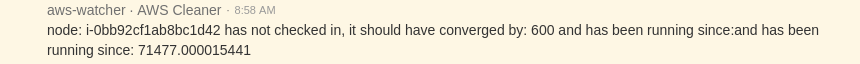
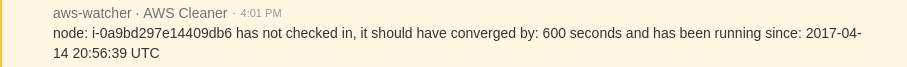
improving the notification message and logic to be more user friendlly

Changed region(s): [[0.0302, 0.375, 0.9674, 0.625], [0.0302, 0.0625, 0.3326, 0.2812], [0.0302, 0.6875, 0.3023, 0.9062]]

diff --git a/bin/aws_watcher.rb b/bin/aws_watcher.rb
@@ -53,9 +53,9 @@ loop do
     visibility_timeout: 3
   ).messages
 
-  puts "Got #{messages.size} messages"
+  puts "Got #{messages.size} message(s)"
   messages.each_with_index do |message, index|
-    puts "Looking at message number #{index}"
+    puts "Looking at message number #{index}" unless messages.size.zero?
     body = AwsCleaner.new.parse(message.body)
     id = message.receipt_handle
     now = Time.now.utc
@@ -67,18 +67,22 @@ loop do
     end
 
     @instance_id = AwsCleaner.new.process_message(body)
-    chef_node = AwsCleaner::Chef.get_chef_node_name(@instance_id, @config)
     elapsed_time = now - launch_time
     p "launch_time: #{launch_time}"
     p "now: #{now}"
-    # if the node exists in chef it hass bootstrapped
+    # if the node is no longer in aws we don't care anymore
+    # we can delete the message message
+    if !AwsWatcher::EC2.instance_alive?(@instance_id, @config)
+      p "instance: #{@instance_id} is not in aws anymore, removing message from queue"
+      AwsCleaner.new.delete_message(id, @config)
+    # if the node exists in chef it has bootstrapped
     # so we can delete the message
-    if chef_node || !AwsWatcher::EC2.instance_alive?(@instance_id, @config)
+    elsif AwsWatcher::Chef.registered?(@instance_id, @config)
       p "instance: #{@instance_id} has bootstrapped, removing message from queue"
       AwsCleaner.new.delete_message(id, @config)
-
+    else
+      p "instance: #{@instance_id}, launched: #{launch_time}, elapsed: #{elapsed_time} seconds"
     end
-    p "instance: #{@instance_id}, launched: #{launch_time}, elapsed: #{elapsed_time}"
     # if the elapsed time is less than how long we consider
     # a 'normal' converge time that's ok we just move on and
     # wait for another pass
@@ -96,9 +100,8 @@ loop do
       p 'node elaspsed time is too high'
       notification = "node: #{@instance_id} has not checked in, "
       notification += 'it should have converged by: '
-      notification += "#{@config[:bootstrap][:converged_by]} "
-      notification += 'and has been running since:and has been '
-      notification += "running since: #{elapsed_time}"
+      notification += "#{@config[:bootstrap][:converged_by]} seconds "
+      notification += "and has been running since: #{launch_time}"
       AwsCleaner::Notify.notify_chat(notification, @config)
     end
   end

diff --git a/lib/aws-watcher.rb b/lib/aws-watcher.rb
@@ -3,6 +3,15 @@ class AwsWatcher
   require 'aws_cleaner/aws_cleaner.rb'
   module Chef
     include AwsCleaner::Chef
+    def self.registered?(instance_id, config)
+      chef = AwsCleaner::Chef.client(config)
+      results = chef.search.query(:node, "ec2_instance_id:#{instance_id} OR chef_provisioning_reference_server_id:#{instance_id}")
+      if results.rows.empty?
+        false
+      else
+        true
+      end
+    end
   end
 
   module SQS

diff --git a/CHANGELOG.md b/CHANGELOG.md
@@ -2,5 +2,9 @@
 
 ### Unreleased
 
+#### 0.2.0
+- improving the notification message to be more user friendly
+- improving logic to be more user friendly
+
 #### 0.1.0
 - initial working version.
